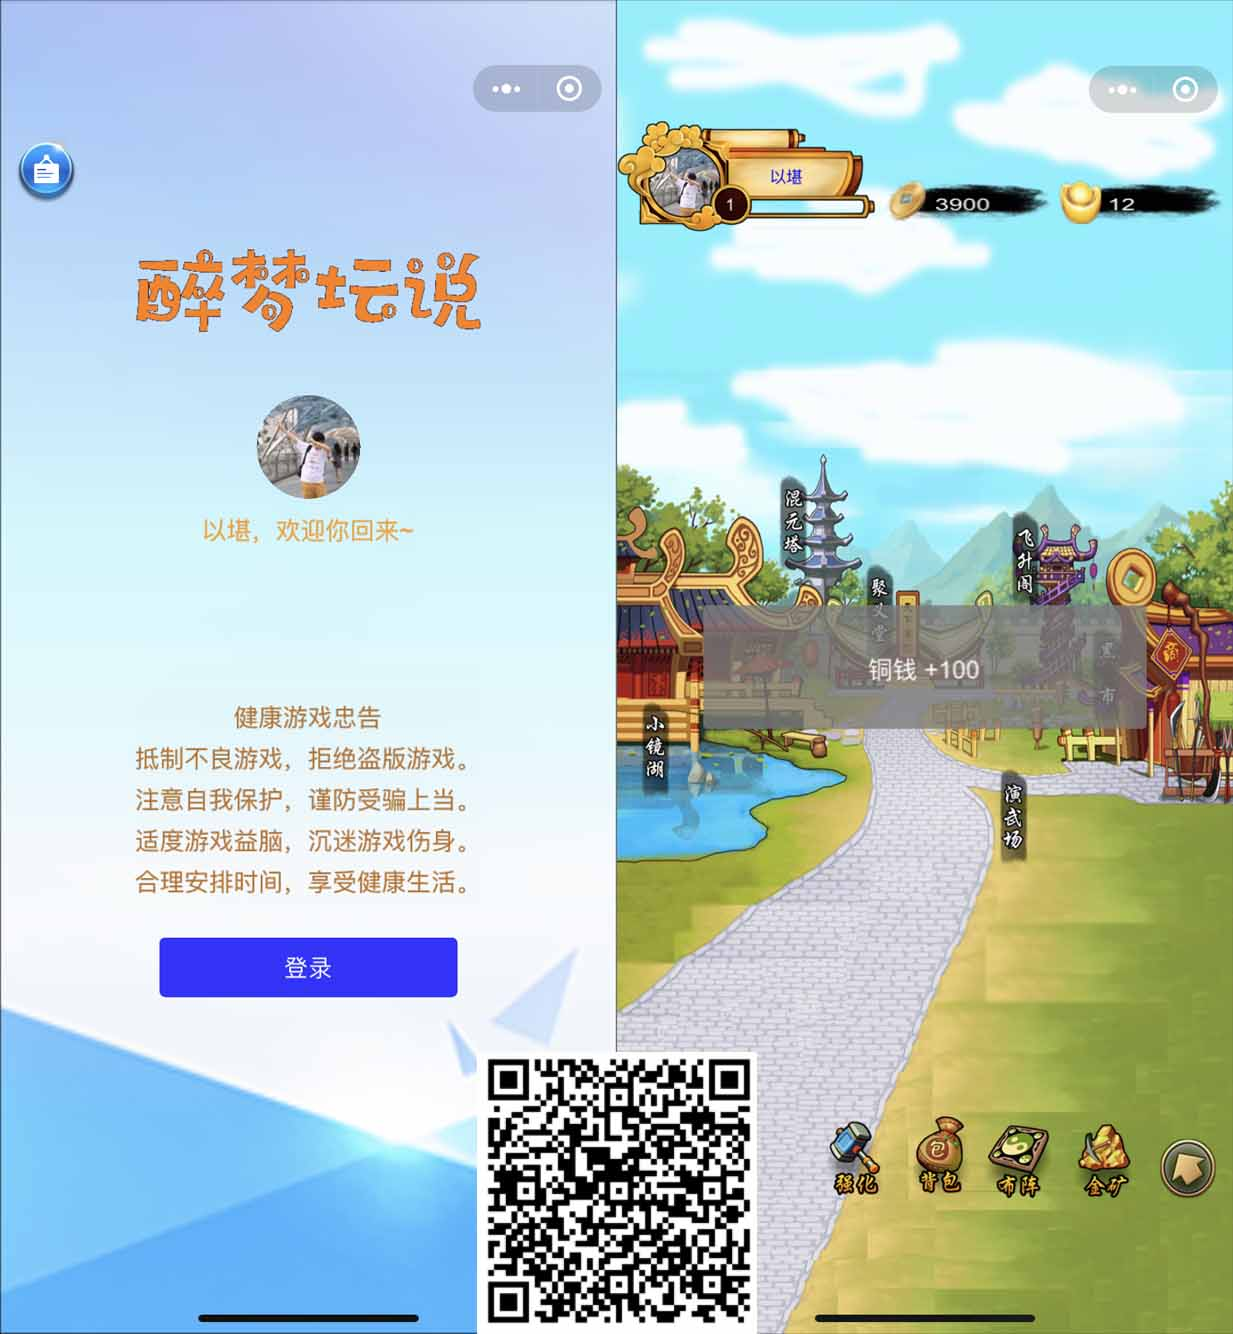
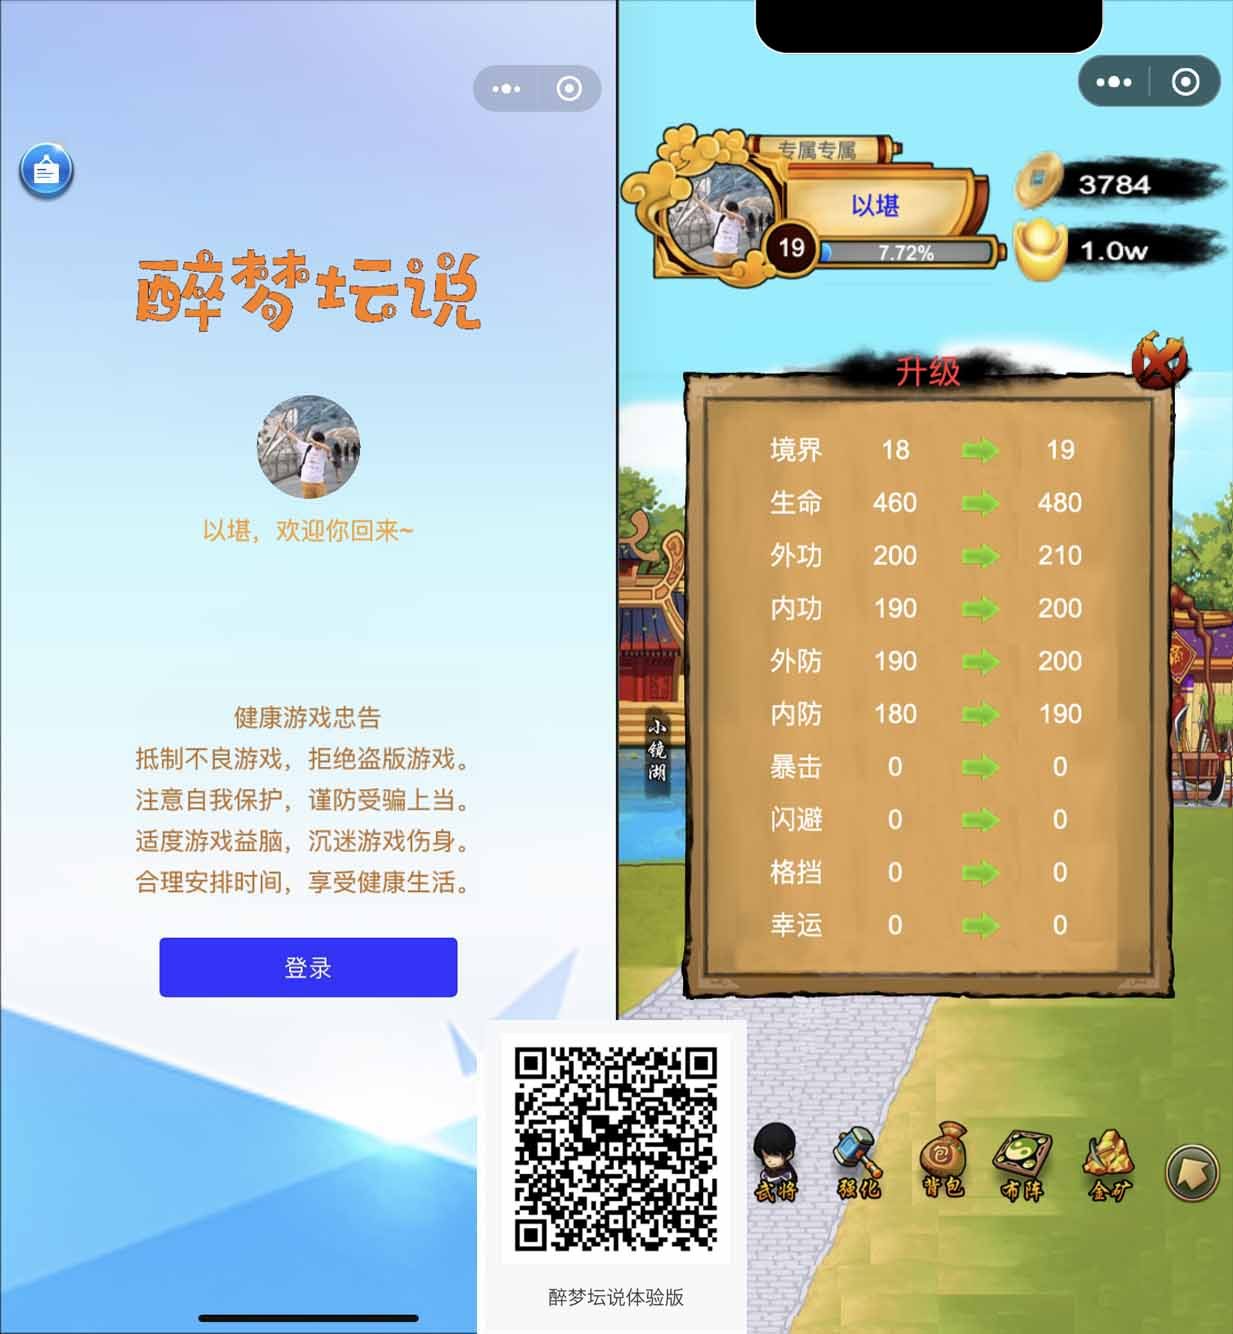
抽象GameApi，并且完成等级/境界的转义

diff --git a/assets/Main/Main.js b/assets/Main/Main.js
@@ -10,6 +10,7 @@
 
 let Common = require("../Kits/Common");
 let WebApi = require("../Kits/WebApi");
+let GameApi = require("../Kits/GameApi");
 
 cc.Class({
   extends: cc.Component,
@@ -78,7 +79,7 @@ cc.Class({
       default: null
     },
     // 称号
-    m_title: {
+    m_taste: {
       type: cc.Node,
       default: null
     },
@@ -241,11 +242,11 @@ cc.Class({
     this.bLockButton = true;
     console.log('Main onBtnQianghuaClick');
     g_objMemberInfo.level++;
-    const objMemberInfo = Common.funComputedMemberInfoAD(g_objMemberInfo.level);
+    const objMemberInfo = GameApi.funComputedMemberInfoAD(g_objMemberInfo.level);
     
     WebApi.updateMemberInfo(objMemberInfo).then((res) => {
       this.showLevelupDlg();
-      this.m_level.getComponent(cc.Label).string = g_objMemberInfo.level;
+      this.m_taste.getComponent(cc.Label).string = GameApi.getTasteString(g_objMemberInfo.level);
       console.log('Main onBtnQianghuaClick success', res);
     }).catch((err) => {
       console.log('Main onBtnQianghuaClick fail', err);
@@ -267,7 +268,7 @@ cc.Class({
     WebApi.updateMemberInfo(objMemberInfo).then((res) => {
       const strMsg = '铜钱 +100';
       this.showToastDlg(strMsg);
-      this.m_money.getComponent(cc.Label).string = Common.formatLargeNumber(g_objMemberInfo.money);
+      this.m_money.getComponent(cc.Label).string = GameApi.formatLargeNumber(g_objMemberInfo.money);
       console.log('Main onBtnBeibaoClick success', res);
     }).catch((err) => {
       console.log('Main onBtnBeibaoClick fail', err);
@@ -289,7 +290,7 @@ cc.Class({
     WebApi.updateMemberInfo(objMemberInfo).then((res) => {
       const strMsg = '元宝 +50';
       this.showToastDlg(strMsg);
-      this.m_gold.getComponent(cc.Label).string = Common.formatLargeNumber(g_objMemberInfo.gold);
+      this.m_gold.getComponent(cc.Label).string = GameApi.formatLargeNumber(g_objMemberInfo.gold);
       console.log('Main onBtnJinkuangClick success', res);
     }).catch((err) => {
       console.log('Main onBtnJinkuangClick fail', err);
@@ -332,16 +333,17 @@ cc.Class({
       // 更新Label信息
       this.m_name.getComponent(cc.Label).string = g_objUserInfo.nickName;
       this.m_level.getComponent(cc.Label).string = g_objMemberInfo.level;
-      this.m_title.getComponent(cc.Label).string = g_objMemberInfo.title;
-      this.m_money.getComponent(cc.Label).string = Common.formatLargeNumber(g_objMemberInfo.money);
-      this.m_gold.getComponent(cc.Label).string = Common.formatLargeNumber(g_objMemberInfo.gold);
+      this.m_taste.getComponent(cc.Label).string = GameApi.getTasteString(g_objMemberInfo.level);
+      this.m_taste.color = GameApi.getTasteColor(g_objMemberInfo.level);
+      this.m_money.getComponent(cc.Label).string = GameApi.formatLargeNumber(g_objMemberInfo.money);
+      this.m_gold.getComponent(cc.Label).string = GameApi.formatLargeNumber(g_objMemberInfo.gold);
     }
   },
 
   // 渲染经验值信息
   setExpProgress: function(level, exp) {
     const rootWidth = this.m_sprExpRoot.width;
-    let fPer = exp / Common.getExpMaxString(level);  // 
+    let fPer = exp / GameApi.getExpMaxString(level);  // 
     fPer = fPer > 1 ? 1 : fPer;
     const fPerResult = (fPer * 100).toFixed(2); // 百分比制
     const nWidth = 5 + fPer * rootWidth;
@@ -388,11 +390,11 @@ cc.Class({
 
   // 检验升级情况
   checkoutLevelup: function() {
-    const nExpMax = parseInt(Common.getExpMaxString(g_objMemberInfo.level));
+    const nExpMax = parseInt(GameApi.getExpMaxString(g_objMemberInfo.level));
     if (g_objMemberInfo.exp >= nExpMax) {
       // 制造参数
       g_objMemberInfo.level++;
-      const objMemberInfo = Common.funComputedMemberInfoAD(g_objMemberInfo.level);
+      const objMemberInfo = GameApi.funComputedMemberInfoAD(g_objMemberInfo.level);
       objMemberInfo.exp = 0;
       g_objMemberInfo = Common.destructuringAssignment(g_objMemberInfo, objMemberInfo);
 
@@ -425,8 +427,8 @@ cc.Class({
 
   // 显示升级奖励对话框
   showLevelupDlg: function() {
-    const objMemberInfoOld = Common.funComputedMemberInfoAD(g_objMemberInfo.level - 1);
-    const objMemberInfoNew = Common.funComputedMemberInfoAD(g_objMemberInfo.level);
+    const objMemberInfoOld = GameApi.funComputedMemberInfoAD(g_objMemberInfo.level - 1);
+    const objMemberInfoNew = GameApi.funComputedMemberInfoAD(g_objMemberInfo.level);
     this.m_dlgLevelup = cc.instantiate(this.m_prefabLevelup);
     this.m_dlgLevelup.getComponent('LevelupDialog').setLevelupData(objMemberInfoOld, objMemberInfoNew);
     this.m_root.addChild(this.m_dlgLevelup);

diff --git a/assets/Kits/GameApi.js b/assets/Kits/GameApi.js
@@ -1,0 +1,116 @@
+//////////////////////////////////////////////////
+// formatLargeNumber
+// 格式化数字，超过万则显示w为单位
+//////////////////////////////////////////////////
+function formatLargeNumber(num) {
+  let number = parseInt(num);
+  let result = '';
+
+  if (number >= 10000) {
+    number = number / 10000;
+    result = `${number.toFixed(1)}w`;
+  } else {
+    result = `${number}`;
+  }
+  return result;
+}
+
+//////////////////////////////////////////////////
+// funComputedMemberInfoAD
+// 计算玩家的基础属性
+//////////////////////////////////////////////////
+function funComputedMemberInfoAD(level) {
+  const objMemberInfo = {
+    level: level,
+    hp: level * 20 + 100,
+    outerAttack: level * 10 + 20, // 外功
+    innerAttack: level * 10 + 10, // 内功
+    outerDefense: level * 10 + 10, // 外防
+    innerDefense: level * 10 + 0, // 内防
+    crit: 0, // 暴击率
+    dodge: 0, // 闪避率
+    block: 0, // 格挡率
+    lucky: 0, // 幸运值
+  };
+  return objMemberInfo;
+}
+
+//////////////////////////////////////////////////
+// formatDate
+// 秒数格式化日期
+//////////////////////////////////////////////////
+function formatDate(seconds) {
+  let nSeconds = new Number(seconds);
+  const ss = Math.floor(nSeconds % 60);
+  nSeconds = Math.floor(nSeconds / 60);
+  const mm = Math.floor(nSeconds % 60);
+  const hh = Math.floor(nSeconds / 60);
+  let strResult = `${hh}时${mm}分${ss}秒`
+
+  return strResult;
+}
+
+//////////////////////////////////////////////////
+// getExpMaxString
+// 通过当前等级，计算升级所需的经验值
+//////////////////////////////////////////////////
+function getExpMaxString(level) {
+  const nExpMax = parseInt(Math.pow(level, 3) + 0.1 * Math.pow((level - 1), 3) + 100);
+  return String(nExpMax);
+}
+
+//////////////////////////////////////////////////
+// getTasteString
+// 通过当前等级，计算当前的境界
+//////////////////////////////////////////////////
+function getTasteString(level) {
+  if (level > 199) {
+    level = 199;
+  }
+  let strResult = '';
+  const arrTasteHeader = ['筑基', '开光', '融合', '心动', '金丹', '元婴', '出窍', '分神', '合体', '洞虚', '大乘', '渡劫', '散仙', '灵仙', '真仙', '玄仙', '金仙', '准圣', '圣人', '鸿蒙'];
+  const arrTasteTail = ['一重', '二重', '三重', '四重', '五重', '六重', '七重', '八重', '九重', '十重'];
+  strResult = `${arrTasteHeader[Math.floor(level / 10)]}${arrTasteTail[level % 10]}`
+  return strResult;
+}
+
+//////////////////////////////////////////////////
+// getTasteColor
+// 通过当前等级，计算当前的境界
+//////////////////////////////////////////////////
+function getTasteColor(level) {
+  if (level > 199) {
+    level = 199;
+  }
+  const index = Math.floor(level / 10);
+  const arrTasteColor = [[100, 100, 100],   // 筑基 灰色
+                         [50, 50, 50],      // 开光
+                         [150, 150, 255],   // 融合 蓝色
+                         [100, 100, 255],   // 心动
+                         [0, 0, 255],       // 金丹 
+                         [150, 255, 150],   // 元婴 绿色
+                         [100, 255, 100],   // 出窍 
+                         [50, 255, 50],     // 分神
+                         [0, 255, 0],       // 合体 
+                         [255, 150, 255],   // 洞虚 紫色
+                         [255, 100, 255],   // 大乘 
+                         [255, 50, 255],    // 渡劫
+                         [255, 0, 255],     // 散仙 
+                         [255, 255, 150],   // 灵仙 金色
+                         [255, 255, 100],   // 真仙
+                         [255, 255, 50],    // 玄仙
+                         [255, 255, 0],     // 金仙 
+                         [255, 150, 150],   // 准圣 红色
+                         [255, 100, 100],   // 圣人
+                         [255, 0, 0]];     // 鸿蒙
+  return new cc.color(arrTasteColor[index][0], arrTasteColor[index][1], arrTasteColor[index][2]);
+}
+
+export default {
+  formatLargeNumber,
+  funComputedMemberInfoAD,
+  formatDate,
+  getExpMaxString,
+  getTasteString,
+  getTasteColor,
+}

diff --git a/assets/Kits/Common.js b/assets/Kits/Common.js
@@ -44,74 +44,8 @@ function destructuringAssignment(objBase, objAdd) {
   return objResult;
 }
 
-//////////////////////////////////////////////////
-// formatLargeNumber
-// 格式化数字，超过万则显示w为单位
-//////////////////////////////////////////////////
-function formatLargeNumber(num) {
-  let number = parseInt(num);
-  let result = '';
-
-  if (number >= 10000) {
-    number = number / 10000;
-    result = `${number.toFixed(1)}w`;
-  } else {
-    result = `${number}`;
-  }
-  return result;
-}
-
-//////////////////////////////////////////////////
-// funComputedMemberInfoAD
-// 计算玩家的基础属性
-//////////////////////////////////////////////////
-function funComputedMemberInfoAD(level) {
-  const objMemberInfo = {
-    level: level,
-    hp: level * 20 + 100,
-    outerAttack: level * 10 + 20, // 外功
-    innerAttack: level * 10 + 10, // 内功
-    outerDefense: level * 10 + 10, // 外防
-    innerDefense: level * 10 + 0, // 内防
-    crit: 0, // 暴击率
-    dodge: 0, // 闪避率
-    block: 0, // 格挡率
-    lucky: 0, // 幸运值
-  };
-  return objMemberInfo;
-}
-
-//////////////////////////////////////////////////
-// formatDate
-// 秒数格式化日期
-//////////////////////////////////////////////////
-function formatDate(seconds) {
-  let nSeconds = new Number(seconds);
-  const ss = Math.floor(nSeconds % 60);
-  nSeconds = Math.floor(nSeconds / 60);
-  const mm = Math.floor(nSeconds % 60);
-  const hh = Math.floor(nSeconds / 60);
-  let strResult = `${hh}时${mm}分${ss}秒`
-
-  return strResult;
-}
-
-//////////////////////////////////////////////////
-// getExpMaxString
-// 通过当前等级，计算升级所需的经验值
-//////////////////////////////////////////////////
-function getExpMaxString(level) {
-  const nExpMax = parseInt(Math.pow(level, 3) + 0.1 * Math.pow((level - 1), 3) + 100);
-  return String(nExpMax);
-}
-
-
 export default {
   AdapterScreen,
   isObjectEmpty,
   destructuringAssignment,
-  formatLargeNumber,
-  funComputedMemberInfoAD,
-  formatDate,
-  getExpMaxString,
 }

diff --git a/assets/Main/Prefab/LevelupDialog.js b/assets/Main/Prefab/LevelupDialog.js
@@ -8,7 +8,7 @@
 //  - [Chinese] https://docs.cocos.com/creator/manual/zh/scripting/life-cycle-callbacks.html
 //  - [English] https://www.cocos2d-x.org/docs/creator/manual/en/scripting/life-cycle-callbacks.html
 
-let Common = require("../../Kits/Common");
+let GameApi = require("../Kits/GameApi");
 
 cc.Class({
   extends: cc.Component,
@@ -24,12 +24,12 @@ cc.Class({
       default: null
     },
     // 等级 - 旧
-    m_labelLevel_Old: {
+    m_labelTaste_Old: {
       type: cc.Node,
       default: null
     },
     // 等级 - 新
-    m_labelLevel_New: {
+    m_labelTaste_New: {
       type: cc.Node,
       default: null
     },
@@ -181,8 +181,8 @@ cc.Class({
   //////////////////////////////////////////////////
   // 渲染奖励信息
   setLevelupData(objOld, objNew) {
-    this.m_labelLevel_Old.getComponent(cc.Label).string = objOld.level;
-    this.m_labelLevel_New.getComponent(cc.Label).string = objNew.level;
+    this.m_labelTaste_Old.getComponent(cc.Label).string = GameApi.getTasteString(objOld.level);
+    this.m_labelTaste_New.getComponent(cc.Label).string = GameApi.getTasteString(objNew.level);
     this.m_labelHP_Old.getComponent(cc.Label).string = objOld.hp;
     this.m_labelHP_New.getComponent(cc.Label).string = objNew.hp;
     this.m_labelOuterAttack_Old.getComponent(cc.Label).string = objOld.outerAttack;

diff --git a/assets/Main/Prefab/MemberDialog.js b/assets/Main/Prefab/MemberDialog.js
@@ -9,6 +9,7 @@
 //  - [English] https://www.cocos2d-x.org/docs/creator/manual/en/scripting/life-cycle-callbacks.html
 
 let Common = require("../Kits/Common");
+let GameApi = require("../Kits/GameApi");
 
 cc.Class({
   extends: cc.Component,
@@ -45,7 +46,7 @@ cc.Class({
       default: null
     },
     // 等级
-    m_labelLevel: {
+    m_labelTaste: {
       type: cc.Node,
       default: null
     },
@@ -233,9 +234,9 @@ cc.Class({
       // 称号
       this.m_labelTitle.getComponent(cc.Label).string = g_objMemberInfo.title;
       // 等级
-      this.m_labelLevel.getComponent(cc.Label).string = g_objMemberInfo.level;
+      this.m_labelTaste.getComponent(cc.Label).string = GameApi.getTasteString(g_objMemberInfo.level);
       // 经验
-      this.m_labelExp.getComponent(cc.Label).string = `${g_objMemberInfo.exp} / ${Common.getExpMaxString(g_objMemberInfo.level)}`;
+      this.m_labelExp.getComponent(cc.Label).string = `${g_objMemberInfo.exp} / ${GameApi.getExpMaxString(g_objMemberInfo.level)}`;
       // 描述
       this.m_labelDescribe.getComponent(cc.Label).string = this.getDescribeString(g_objMemberInfo.describe);
       // 生命

diff --git a/assets/Main/Prefab/HookDialog.js b/assets/Main/Prefab/HookDialog.js
@@ -8,7 +8,7 @@
 //  - [Chinese] https://docs.cocos.com/creator/manual/zh/scripting/life-cycle-callbacks.html
 //  - [English] https://www.cocos2d-x.org/docs/creator/manual/en/scripting/life-cycle-callbacks.html
 
-let Common = require("../../Kits/Common");
+let GameApi = require("../Kits/GameApi");
 
 cc.Class({
   extends: cc.Component,
@@ -101,7 +101,7 @@ cc.Class({
   //////////////////////////////////////////////////
   // 渲染奖励信息
   setHookAwardData(nMeasure, nExp, nMoney, nGold) {
-    const strTime = `您本次离线了${Common.formatDate(nMeasure)}`;
+    const strTime = `您本次离线了${GameApi.formatDate(nMeasure)}`;
     const strExp = `经验 + ${nExp}`;
     const strMoney = `铜钱 + ${nMoney}`;
     const strGold = `元宝 + ${nGold}`;

diff --git a/README.md b/README.md
@@ -20,5 +20,22 @@
 #### MemberInfo
 玩家信息 - 游戏纬度
 
+# 需求池：
+1. √ 优化登录交互进度条。
+2. √ 经验条百分比展示。
+3. √ 人物属性页面。人物图标。 
+4. √ 优化离线奖励对话框。 
+5. √ 升级对话框的。 
+5. √ 排行榜对话框大小调整。 
+6. 生产环境、测试环境切换。
+7. √ 排行榜接口交互优化，异常数据保护。 
+8. 等级/境界的转义。
+8. 背包对话框。
+9. 黑店十连抽，货币使用。
+10. 竞技场比武。
+11. 剧情开展。
+12. 本命法宝。
+13. 家园系统。
+
 # 预览：  
 ![Result](https://raw.githubusercontent.com/gengjian1203/FreedomLegend/master/readme/result.jpg "Result")
